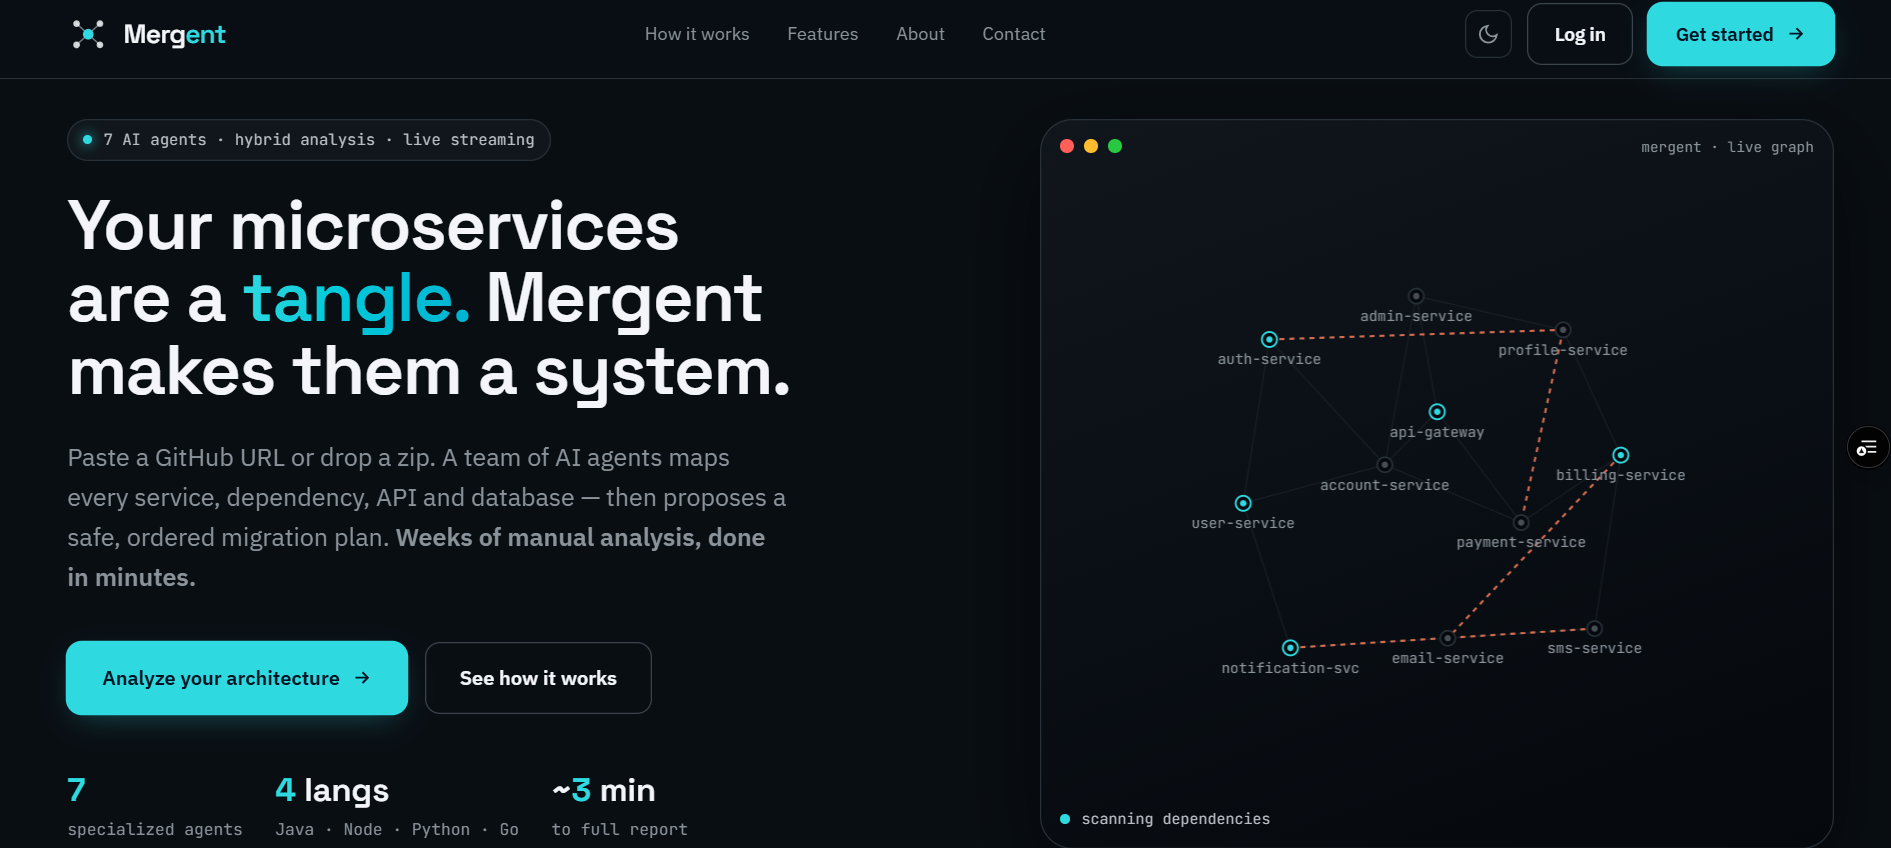
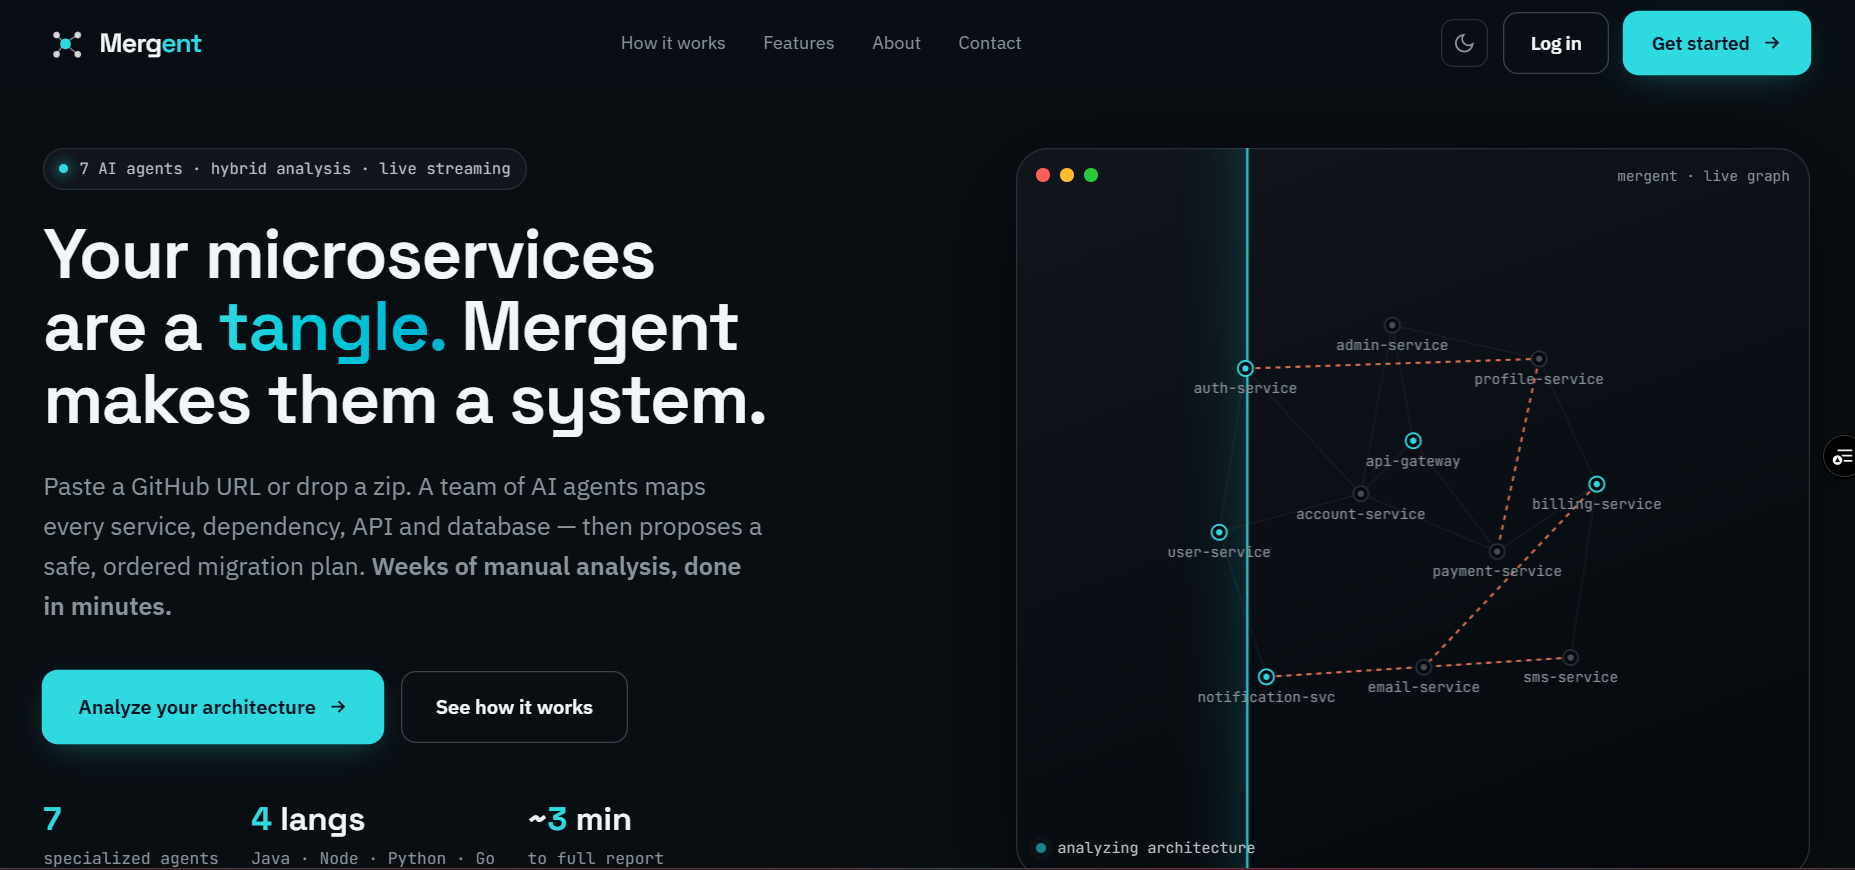
Use polished HelixOS & Mergent landing screenshots for project cards
- Swap helixos.png and mergent.png to the app landing-page captures
- Cache-bust the two image URLs (?v=2); relax project-images cache to
  must-revalidate so future image swaps propagate

diff --git a/data.js b/data.js
@@ -70,7 +70,7 @@ window.CV = {
       title: "HelixOS AI",
       sub: "GenAI · Multi-Agent Business OS",
       date: "Jun 2026",
-      img: "project-images/helixos.png",
+      img: "project-images/helixos.png?v=2",
       stack: ["Next.js", "FastAPI", "LangGraph", "Gemini", "Supabase", "PostgreSQL"],
       metric: "8",
       metricLabel: "AI agents",
@@ -87,7 +87,7 @@ window.CV = {
       title: "Mergent AI",
       sub: "Agentic AI · Microservice Migration",
       date: "May 2026",
-      img: "project-images/mergent.png",
+      img: "project-images/mergent.png?v=2",
       stack: ["Python", "LangGraph", "FastAPI", "GitHub API", "RAG", "Embeddings"],
       metric: "7",
       metricLabel: "agent pipeline",